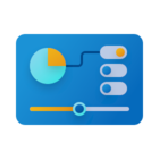
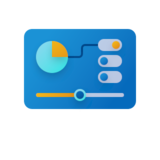
more visual changes

Changed region(s): [[0.0938, 0.1562, 0.9062, 0.8125]]

diff --git a/Rectify11Installer/Pages/ProgressPage.cs b/Rectify11Installer/Pages/ProgressPage.cs
@@ -55,7 +55,7 @@ namespace Rectify11Installer.Pages
 			new InstallerTexts("Rectify11 has a better Theme", "We have tried our best to replicate WinUI controls in our themes, and the dark theme is just amazing.", Properties.Resources.theme),
 			new InstallerTexts("Rectify11 has better Performance", "We strongly value performance. You can choose things that you want to debloat in your system.", Properties.Resources.perf),
 			new InstallerTexts("Rectify11 has changed everything", "We have changed many icons in many different DLL's, resulting in a more consistent operating system.", Properties.Resources.ep),
-			new InstallerTexts("Control Panel Rectified", "We changed many details in the control panel, such as removing old gradients and adding back removed items", Properties.Resources.cp),
+			new InstallerTexts("Rectified Control Panel", "We changed many details in the control panel, such as removing old gradients and adding back removed items", Properties.Resources.cp),
 			new InstallerTexts("Thank you!", "The team appreciates your support, thank you for installing Rectify11.", Properties.Resources.install)
 		};
 		private class InstallerTexts
